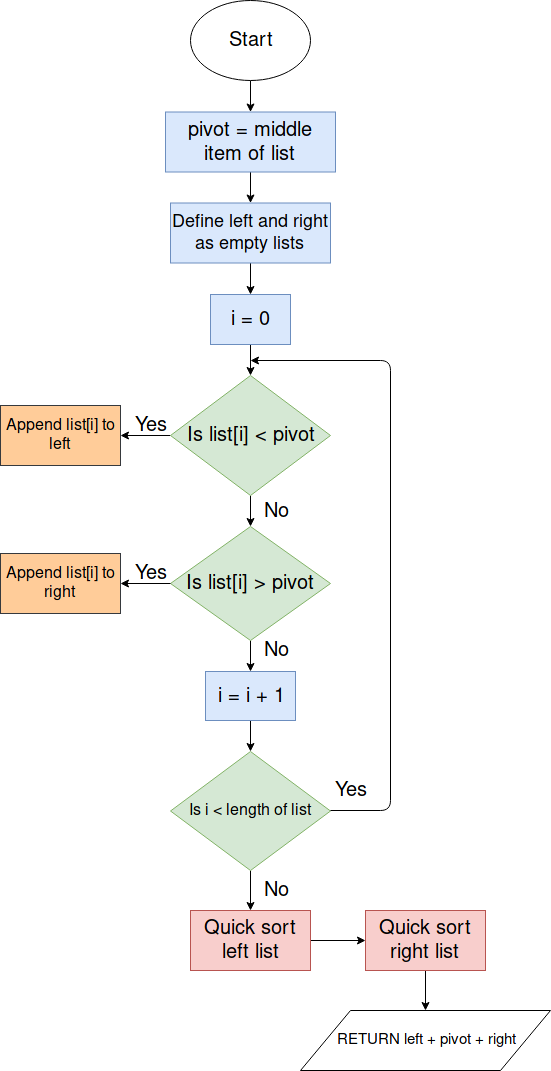
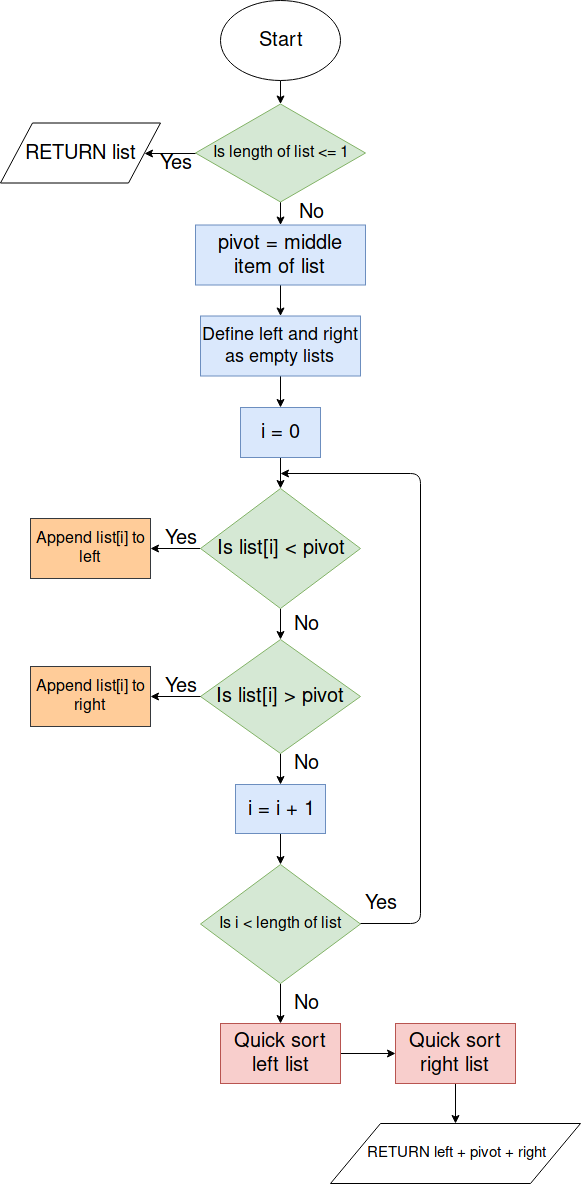
Did some write up

diff --git a/Write-Up/Write-up.md b/Write-Up/Write-up.md
@@ -1234,7 +1234,7 @@ The algorithm goes like this (using a list of items to be sorted):
 
 1. Take the item in the middle of the list. Call this the "pivot".
 2. Compare each item either side of the pivot. If the item is bigger than the pivot, add it to a new list called "right", if the item is smaller than the pivot, add the item to a new list called "left".
-3. Then repeat this process with the left and right lists.
+3. Then repeat this process with the left and right lists (making this algorithm recursive).
 4. Once the current left and right lists have been sorted, append the left list and right list with the pivot in the middle.
 
 Here is the pseudocode of the algorithm:
@@ -1265,8 +1265,6 @@ end
 Here is a flow diagram to represent this:
 
 <img src="Diagrams/quickSort.png" style="zoom: 75%">
-
-
 
 
 
@@ -1376,5 +1374,15 @@ People who want to take the data with them to other places, a USB stick is a goo
 
 People who may not need to travel as much with their data may just want to store their files at home, however if they want to take files to work/other places I will try to make it as easy as possible to do so.
 
-The user should be able to decrypt the files they need to a folder (possibly on a USB stick), or download files from the Vault to their mobile device. This is worse than just using the whole app on the USB stick as mentioned in the last section, as the files will not be encrypted once they are in the folder or downloaded onto the mobile device.
+The user should be able to decrypt the files they need to a folder (possibly on a USB stick), or download files from the Vault to their mobile device. This is worse than just using the whole app on the USB stick as mentioned in the last section, as the files will not be encrypted once they are in the folder or downloaded onto the mobile device. It is not recommended to do this if you want to edit the files while away from home, unless you can edit it on your device, however if not you may as well just put the files onto a USB stick.
+
+A data flow diagram for this use case would look something like this:
+
+![](Diagrams/filesAtHome.png)
+
+For the overall user experience the flow of the program should look like this:
+
+
+
+
 
